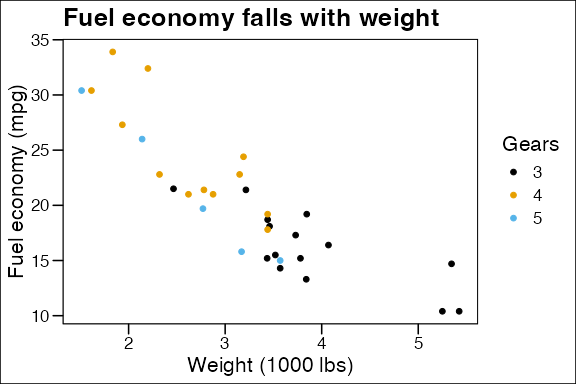
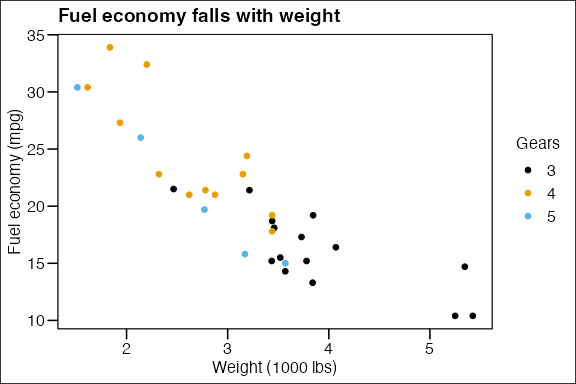
fix: default theme_base() to base graphics' 12pt text
theme_base() used base_size = 16, but base graphics devices default to
12pt text, drawn at full size for axis labels (cex.axis = 1). Default to
12 and stop shrinking tick labels, strip text, legend text and captions
to 0.8. The example no longer implies the theme follows par().

diff --git a/NEWS.md b/NEWS.md
@@ -1,5 +1,11 @@
 # ggthemes (development version)
 
+- `theme_base()` now defaults to `base_size = 12`, the default text size of
+  base graphics, instead of 16, and draws tick labels, strip text, legend
+  text and captions at full size, as base graphics draws axis labels. Pass
+  `base_size = 16` for text close to the old size. Its example no longer
+  implies that the theme follows `par()`.
+
 - `theme_par()` follows base graphics more closely:
 
   - `par("las")` rotates the tick labels, as in base graphics, instead of the
